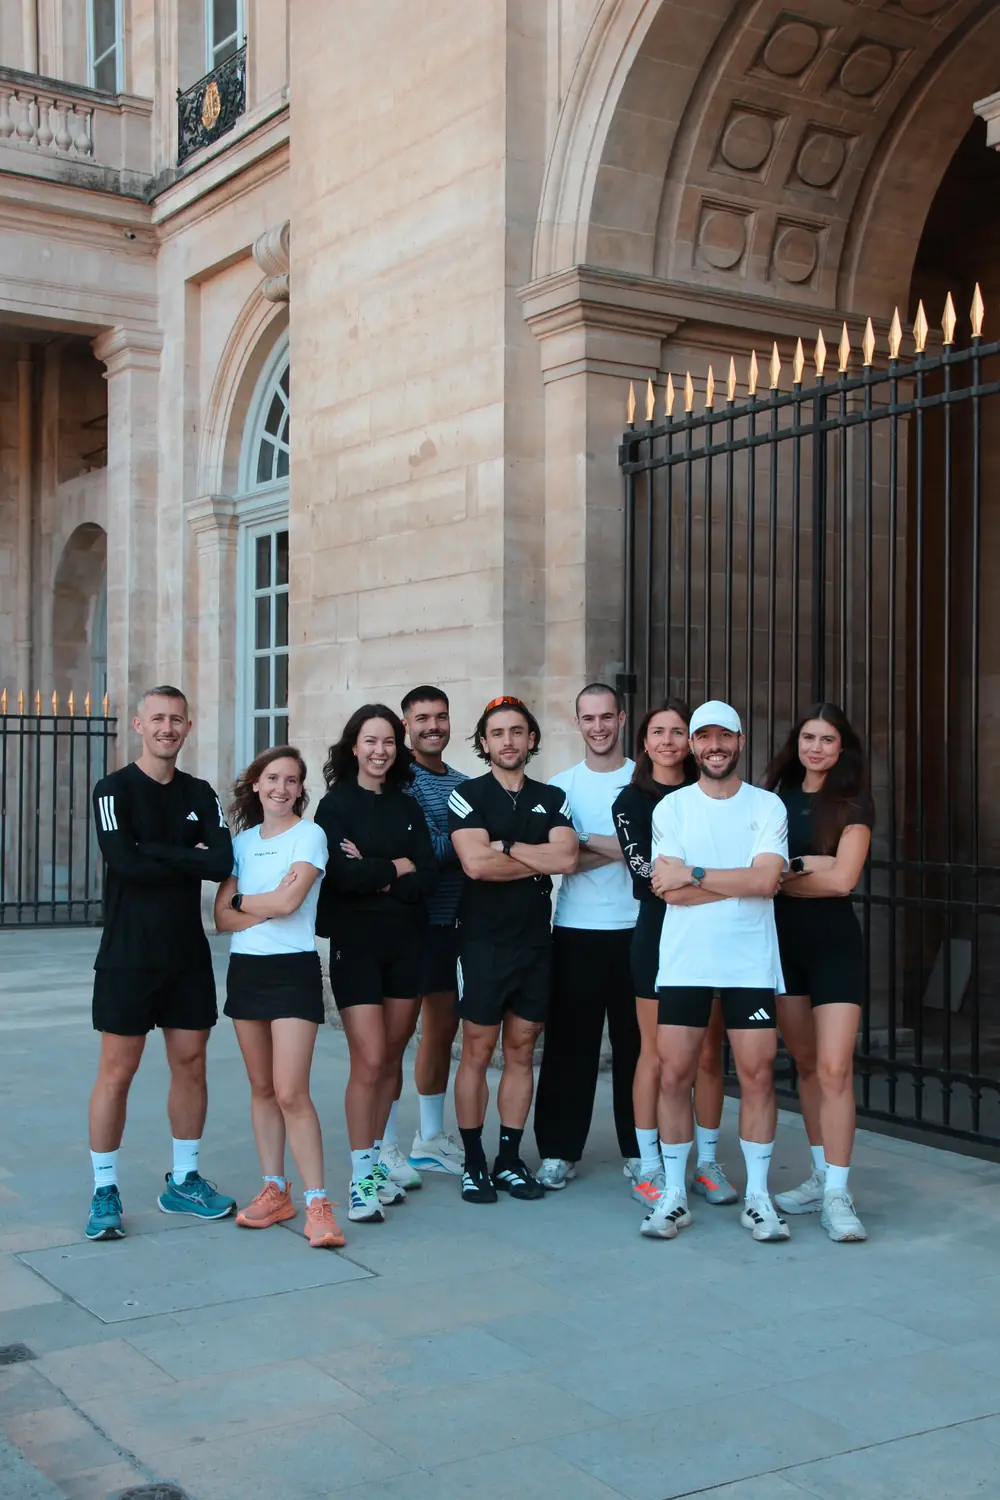
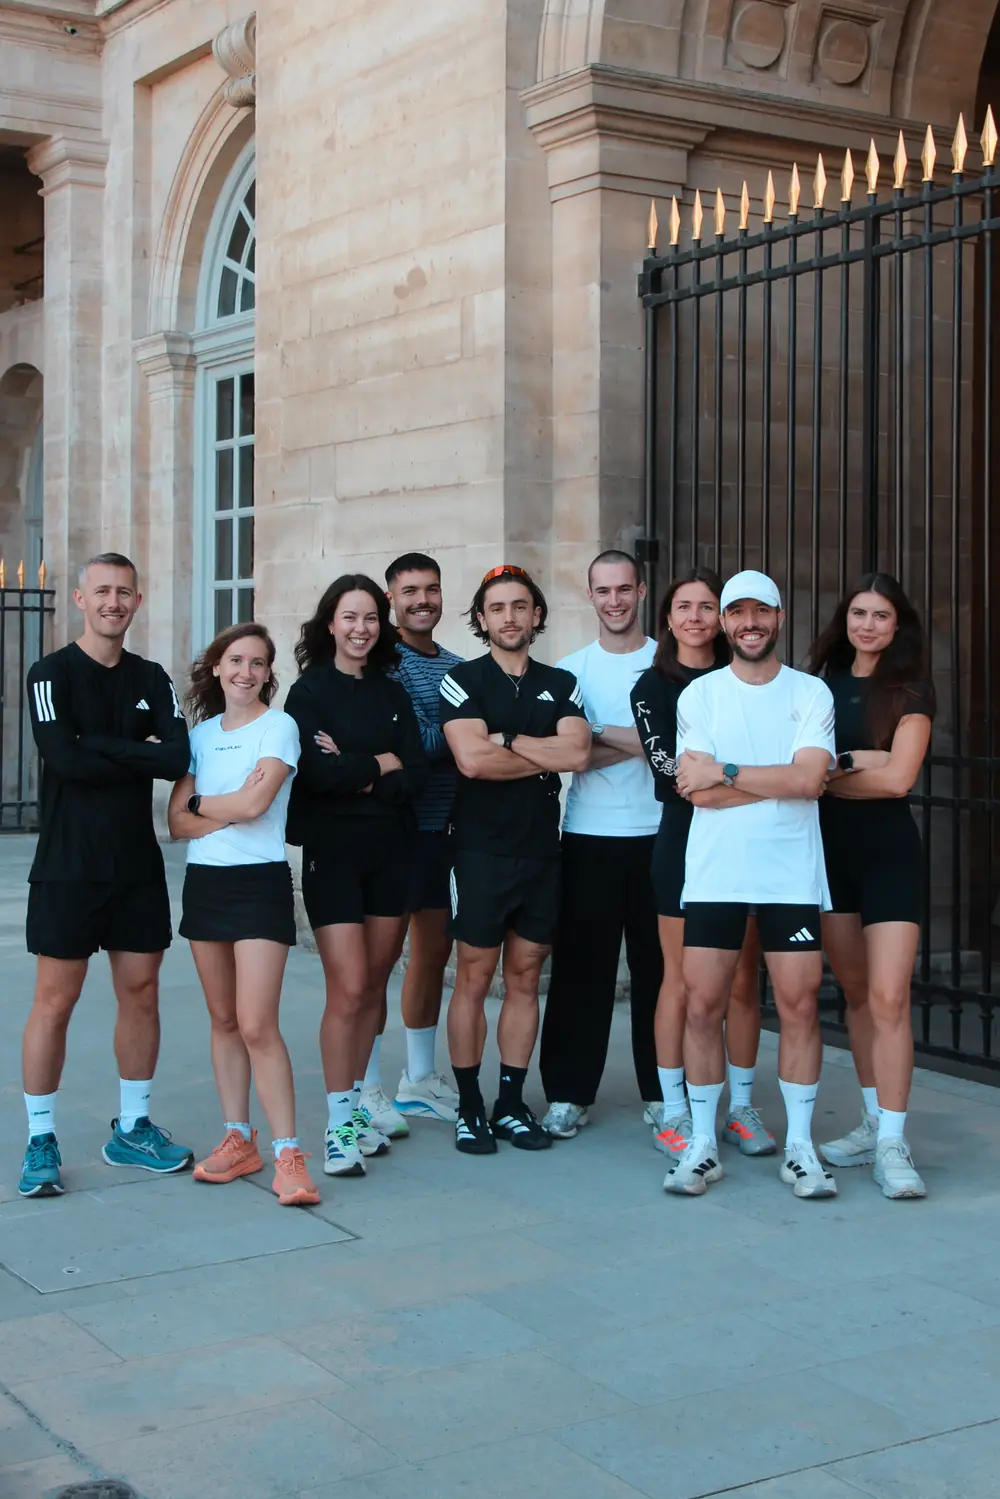
Page équipe : photo de couverture plus grande sur téléphone

diff --git a/notre-equipe.html b/notre-equipe.html
@@ -232,7 +232,7 @@ footer{background:var(--navy-deep);padding:40px 60px;}
 <!-- HERO -->
 <header class="page-hero">
   <picture>
-    <source media="(max-width:768px)" srcset="images/couvertures/equipe-mobile.webp?v=1">
+    <source media="(max-width:768px)" srcset="images/couvertures/equipe-mobile.webp?v=2">
     <img src="images/couvertures/equipe.webp?v=3" alt="" class="page-hero-bg-img" fetchpriority="high">
   </picture>
   <div class="page-hero-eyebrow">L'organisation</div>
